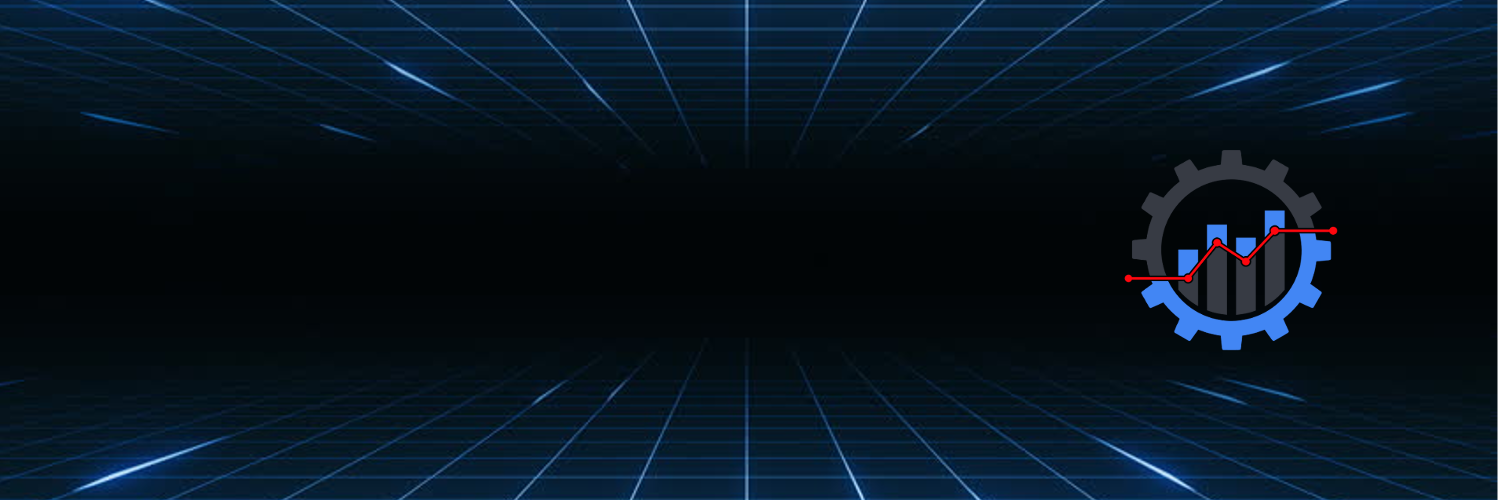
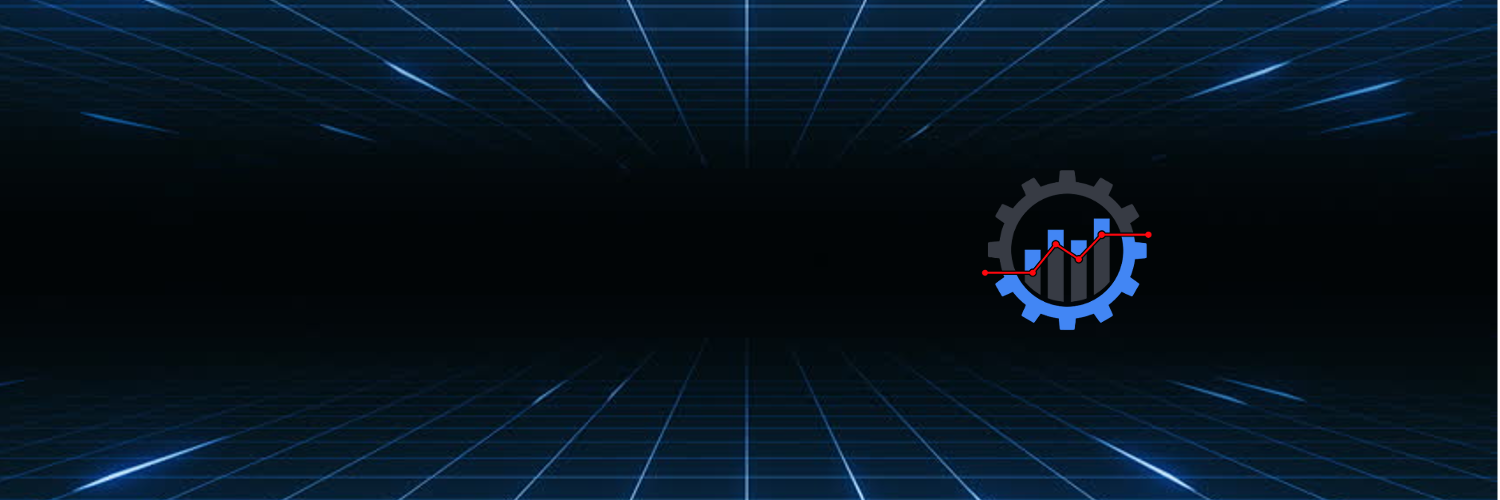
update header and indexpage

Changed region(s): [[0.644, 0.3, 0.8893, 0.72]]

diff --git a/index.md b/index.md
@@ -1,0 +1,45 @@
+---
+layout: splash
+classes:
+  - landing
+author_profile: false
+header:
+  overlay_color: "#000"
+  overlay_filter: "0"
+  overlay_image: /assets/images/header.png
+# excerpt: "DynastyProcess.com is a collaboration between Tan Ho and Joe Sydlowski. Our mission is to deliver free, high-quality resources for DynastyFF analysis."
+intro:
+  - excerpt: "DynastyProcess.com is a collaboration between Tan Ho and Joe Sydlowski. Our mission is to deliver free, high-quality resources for DynastyFF analysis."
+feature_row:
+  - url: /apps
+    image_path: https://i.imgur.com/UXBWknw.png
+    alt: "Apps"
+    title: "Apps"
+    excerpt: "Web-based apps for easy access to things like our trade calculator!"
+    btn_label: "Go to Apps"
+    btn_class: "btn--primary"
+  - url: /tools
+    image_path: https://i.imgur.com/XRghC10.png
+    alt: "Tools"
+    title: "Tools"
+    excerpt: "Excel workbooks, Google Sheets, and other resources."
+    btn_label: "Download"
+    btn_class: "btn--primary"
+  - url: /writing
+    image_path: https://i.imgur.com/tDP4DJe.png
+    alt: "Writing"
+    title: "Writing"
+    excerpt: "Thoughts on DynastyFF, data, strategy, and more."
+    btn_label: "Read"
+    btn_class: "btn--primary"
+---
+
+{% include feature_row id="intro" type="center" %}
+
+{% include feature_row %}
+
+## Contribute to DynastyProcess!
+
+DynastyProcess is dedicated to collaborative and open-source work - the import tools, Excel sheets, databases, and web-apps will always be free. If you’ve got ideas, feedback, bugs, or any other extensions on the work found here, please reach out to us [directly on Twitter](https://twitter.com/_TanHo) and we’d love to have a conversation about it!
+
+This is a labour of love that we're happy to continue for as long as we can. That said, if you’d like to support the costs of running this site, we’ve got accounts set up at [Patreon](http://patreon.com/tanho) (for recurring contributions) and [PayPal](http://paypal.me/tan63) (for one-time contributions). We're happy to take support on a pay-what-you-can basis. A bonus for supporting us: we’d be happy to direct more attention to any projects or requests you’d like us to look into!
